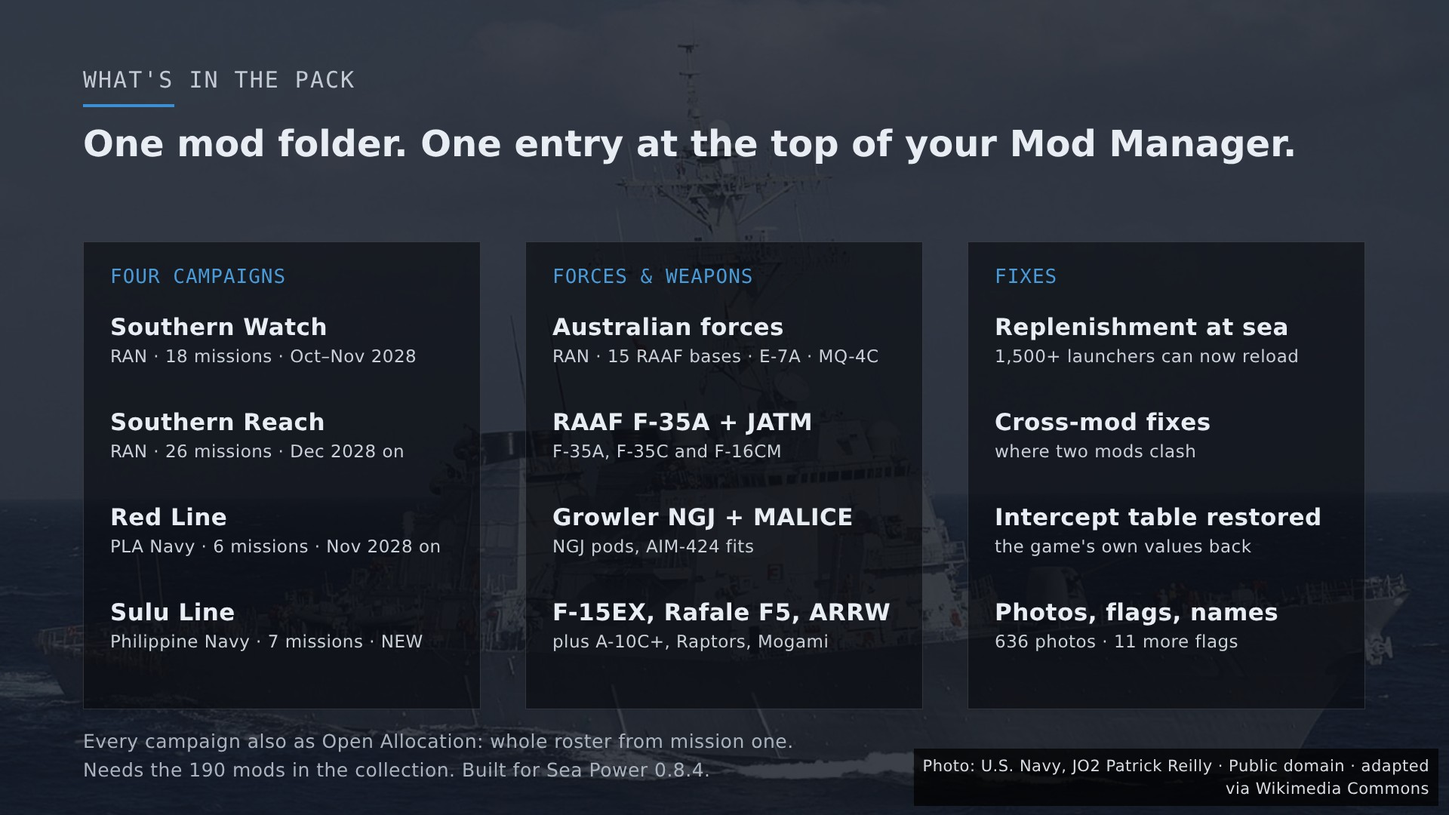
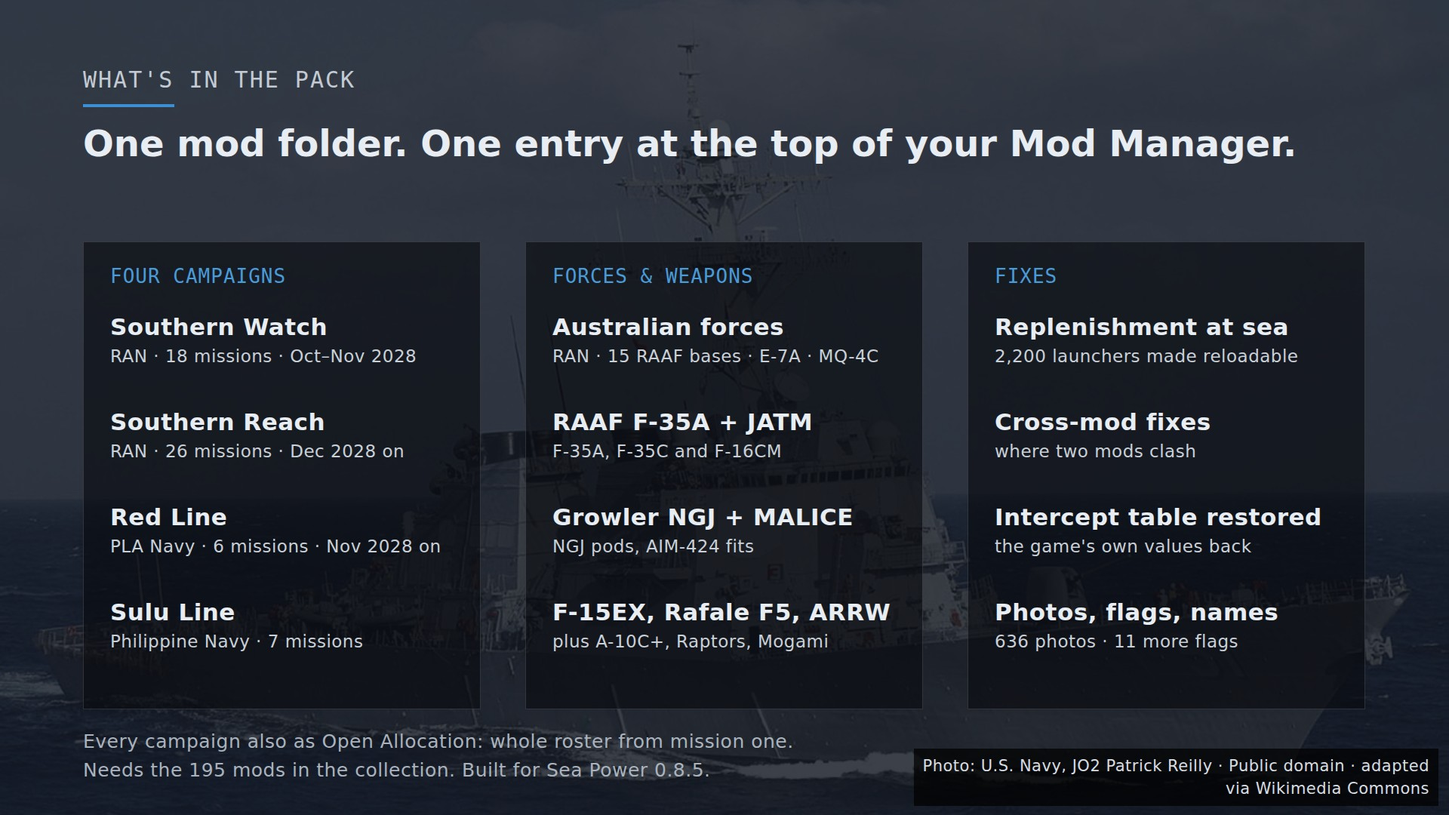
Steam cards for the 13 Oct update; Road Mobile ICBMs note corrected
The 'latest update' card now describes 13 Oct (six mods join, the
SM-6 Block IB from U.S. Navy 2027, 37 hulls re-forked, Mk 41 spacing
and the DDG-995's MH-60 marked not yet confirmed in game) on the U.S.
Navy's public-domain photo of USS Decatur's SM-3 launch, the same
photograph as loading screen 27; VISUAL_CREDITS.txt and the Gallery's
Steam artwork caption credit it, and BRP Tarlac's CC BY-SA entry stays
for the Sulu Line card's map. The 'what's in the pack' card says 195
mods and Sea Power 0.8.5, drops Sulu Line's old NEW, and gives the
replenishment figure as 2,200 launchers made reloadable.

The road-mobile-icbms catalog note said the campaigns reach the mod
through Red Storm Arsenal's Patriots, and the 85ef3cf9 message
repeated it. That was wrong: the coverage check credits it at folder
level, because placed hulls (the Nimitz 2025, the Maya) read other
files in ships/materials/shared/. The Patriots that read its tyre file
are placed only in two loose SEST missions.

Rebuilt from scratch; every gate and both test suites pass except
check_inventory, which still waits on the PC's renormalize of four
mods.

diff --git a/integration/dist/SEST_Integration/Gallery/visual_overhaul.html b/integration/dist/SEST_Integration/Gallery/visual_overhaul.html
@@ -6,7 +6,7 @@
 <div class="controls"><button id="prev">Previous</button><select id="screenSelect" aria-label="Loading photograph"></select><button id="next">Next</button><button id="toggle">Hide preview overlay</button><a id="download" download>Open clean JPEG</a></div><p id="screenCredit" class="note"></p><p class="note">Photographs are fitted without changing the subject. The 1920 × 1080 canvas is a delivery format; smaller source photos do not gain real detail through resizing. Source dimensions and modifications are recorded in the manifest.</p>
 <h2>Flags and naval ensigns</h2><p class="intro">Use national flags for country identity and the appropriate ensign for ship service. Preserve era-specific flags for historical scenarios. Russia is a separate modern-profile option; Soviet assets remain available for historical content.</p><div class="controls"><input id="flagSearch" type="search" placeholder="Find a country or ensign…" aria-label="Search flags"><select id="flagRole" aria-label="Flag type"><option value="">All supplied flags</option><option value="national">National flags</option><option value="naval_ensign">Naval ensigns</option><option value="historical">Historical profile</option></select><span id="flagCount" class="note"></span></div><div id="flags" class="flaggrid"></div>
 <h2>Campaign and briefing presentation</h2><p class="intro">The same approved photograph can support mission covers, a briefing panel and campaign splash art. The template uses plain text and a source photo; theatre names, dates, orders and maps must come from the actual mission.</p><div class="briefing"><img id="briefPhoto" alt="Photographic briefing example"><div class="copy"><label>Briefing layout template</label><h3>Mission title</h3><span class="pill">THEATRE</span> <span class="pill">SCENARIO DATE</span><p><strong>Situation</strong><br>Insert the campaign's approved situation text.</p><p><strong>Mission</strong><br>Insert the actual objectives and rules for this mission.</p><p>Keep the interactive briefing map and operational details sourced from the mission files. This template contains no invented scenario information.</p></div></div>
-<h2>Steam artwork</h2><p class="intro">The images on the collection and pack pages on Steam, made from photos in this gallery. Each image carries its photo credit; full sources are in VISUAL_CREDITS.txt.</p><style>.steamgrid{display:grid;grid-template-columns:repeat(auto-fill,minmax(260px,1fr));gap:16px;max-width:1200px}.steamart{margin:0;background:#fff;border:1px solid var(--line);border-radius:8px;overflow:hidden}.steamart img{display:block;width:100%;height:auto}.steamart figcaption{padding:10px 12px;font-size:13px}.steamart small{color:var(--muted)}</style><div class="steamgrid"><figure class="steamart"><a href="visuals/steam/collection-cover.jpg"><img loading="lazy" src="visuals/steam/collection-cover.jpg" alt="Collection cover"></a><figcaption><strong>Collection cover</strong><br><small>Hobart class: Japan Maritime Self-Defense Force, CC BY 4.0</small></figcaption></figure><figure class="steamart"><a href="visuals/steam/collection-background.jpg"><img loading="lazy" src="visuals/steam/collection-background.jpg" alt="Collection background"></a><figcaption><strong>Collection background</strong><br><small>Arleigh Burke class: U.S. Navy photo by Journalist 2nd Class Patrick Reilly, Public domain; Hobart class: Japan Maritime Self-Defense Force, CC BY 4.0; Collins class submarine: U.S. Navy photo by Mass Communication Specialist 1st Class Leonard Adams, Public domain; Type 054A frigate: U.S. Navy photo by Mass Communication Specialist 1st Class Scott Taylor, Public domain; Miguel Malvar class: Philippine Navy Public Affairs Office, Public domain</small></figcaption></figure><figure class="steamart"><a href="visuals/steam/pack-preview.jpg"><img loading="lazy" src="visuals/steam/pack-preview.jpg" alt="Pack cover"></a><figcaption><strong>Pack cover</strong><br><small>F-35A — RAAF: U.S. Air Force photo by Senior Airman J. Michael Peña, Public domain</small></figcaption></figure><figure class="steamart"><a href="visuals/steam/pack-1-latest-update.jpg"><img loading="lazy" src="visuals/steam/pack-1-latest-update.jpg" alt="Latest update"></a><figcaption><strong>Latest update</strong><br><small>BRP Tarlac: U.S. Navy photo by Mass Communication Specialist 1st Class Daniel Barker, CC BY-SA 4.0</small></figcaption></figure><figure class="steamart"><a href="visuals/steam/pack-2-whats-inside.jpg"><img loading="lazy" src="visuals/steam/pack-2-whats-inside.jpg" alt="What's in the pack"></a><figcaption><strong>What's in the pack</strong><br><small>Arleigh Burke class: U.S. Navy photo by Journalist 2nd Class Patrick Reilly, Public domain</small></figcaption></figure><figure class="steamart"><a href="visuals/steam/pack-3-installing.jpg"><img loading="lazy" src="visuals/steam/pack-3-installing.jpg" alt="Installing"></a><figcaption><strong>Installing</strong><br><small>E-7A Wedgetail — RAAF: U.S. Air Force photo by Lawrence Crespo, Public domain</small></figcaption></figure><figure class="steamart"><a href="visuals/steam/pack-4-southern-watch.jpg"><img loading="lazy" src="visuals/steam/pack-4-southern-watch.jpg" alt="Southern Watch"></a><figcaption><strong>Southern Watch</strong><br><small>Hobart class: Japan Maritime Self-Defense Force, CC BY 4.0; campaign map: MH-60R Seahawk, U.S. Navy/Mass Communication Specialist 3rd Class Andrew Langholf, Public domain</small></figcaption></figure><figure class="steamart"><a href="visuals/steam/pack-5-southern-reach.jpg"><img loading="lazy" src="visuals/steam/pack-5-southern-reach.jpg" alt="Southern Reach"></a><figcaption><strong>Southern Reach</strong><br><small>Collins class submarine: U.S. Navy photo by Mass Communication Specialist 1st Class Leonard Adams, Public domain</small></figcaption></figure><figure class="steamart"><a href="visuals/steam/pack-6-red-line.jpg"><img loading="lazy" src="visuals/steam/pack-6-red-line.jpg" alt="Red Line"></a><figcaption><strong>Red Line</strong><br><small>Type 054A frigate: U.S. Navy photo by Mass Communication Specialist 1st Class Scott Taylor, Public domain; campaign map: Type 003 Fujian, China News Service, CC BY 4.0</small></figcaption></figure><figure class="steamart"><a href="visuals/steam/pack-7-sulu-line.jpg"><img loading="lazy" src="visuals/steam/pack-7-sulu-line.jpg" alt="Sulu Line"></a><figcaption><strong>Sulu Line</strong><br><small>Miguel Malvar class: Philippine Navy Public Affairs Office, Public domain; campaign map: BRP Tarlac, U.S. Navy photo by Mass Communication Specialist 1st Class Daniel Barker, CC BY-SA 4.0</small></figcaption></figure></div>
+<h2>Steam artwork</h2><p class="intro">The images on the collection and pack pages on Steam, made from photos in this gallery. Each image carries its photo credit; full sources are in VISUAL_CREDITS.txt.</p><style>.steamgrid{display:grid;grid-template-columns:repeat(auto-fill,minmax(260px,1fr));gap:16px;max-width:1200px}.steamart{margin:0;background:#fff;border:1px solid var(--line);border-radius:8px;overflow:hidden}.steamart img{display:block;width:100%;height:auto}.steamart figcaption{padding:10px 12px;font-size:13px}.steamart small{color:var(--muted)}</style><div class="steamgrid"><figure class="steamart"><a href="visuals/steam/collection-cover.jpg"><img loading="lazy" src="visuals/steam/collection-cover.jpg" alt="Collection cover"></a><figcaption><strong>Collection cover</strong><br><small>Hobart class: Japan Maritime Self-Defense Force, CC BY 4.0</small></figcaption></figure><figure class="steamart"><a href="visuals/steam/collection-background.jpg"><img loading="lazy" src="visuals/steam/collection-background.jpg" alt="Collection background"></a><figcaption><strong>Collection background</strong><br><small>Arleigh Burke class: U.S. Navy photo by Journalist 2nd Class Patrick Reilly, Public domain; Hobart class: Japan Maritime Self-Defense Force, CC BY 4.0; Collins class submarine: U.S. Navy photo by Mass Communication Specialist 1st Class Leonard Adams, Public domain; Type 054A frigate: U.S. Navy photo by Mass Communication Specialist 1st Class Scott Taylor, Public domain; Miguel Malvar class: Philippine Navy Public Affairs Office, Public domain</small></figcaption></figure><figure class="steamart"><a href="visuals/steam/pack-preview.jpg"><img loading="lazy" src="visuals/steam/pack-preview.jpg" alt="Pack cover"></a><figcaption><strong>Pack cover</strong><br><small>F-35A — RAAF: U.S. Air Force photo by Senior Airman J. Michael Peña, Public domain</small></figcaption></figure><figure class="steamart"><a href="visuals/steam/pack-1-latest-update.jpg"><img loading="lazy" src="visuals/steam/pack-1-latest-update.jpg" alt="Latest update"></a><figcaption><strong>Latest update</strong><br><small>Arleigh Burke class (USS Decatur, SM-3 launch): United States Navy photo, Public domain (also loading screen 27)</small></figcaption></figure><figure class="steamart"><a href="visuals/steam/pack-2-whats-inside.jpg"><img loading="lazy" src="visuals/steam/pack-2-whats-inside.jpg" alt="What's in the pack"></a><figcaption><strong>What's in the pack</strong><br><small>Arleigh Burke class: U.S. Navy photo by Journalist 2nd Class Patrick Reilly, Public domain</small></figcaption></figure><figure class="steamart"><a href="visuals/steam/pack-3-installing.jpg"><img loading="lazy" src="visuals/steam/pack-3-installing.jpg" alt="Installing"></a><figcaption><strong>Installing</strong><br><small>E-7A Wedgetail — RAAF: U.S. Air Force photo by Lawrence Crespo, Public domain</small></figcaption></figure><figure class="steamart"><a href="visuals/steam/pack-4-southern-watch.jpg"><img loading="lazy" src="visuals/steam/pack-4-southern-watch.jpg" alt="Southern Watch"></a><figcaption><strong>Southern Watch</strong><br><small>Hobart class: Japan Maritime Self-Defense Force, CC BY 4.0; campaign map: MH-60R Seahawk, U.S. Navy/Mass Communication Specialist 3rd Class Andrew Langholf, Public domain</small></figcaption></figure><figure class="steamart"><a href="visuals/steam/pack-5-southern-reach.jpg"><img loading="lazy" src="visuals/steam/pack-5-southern-reach.jpg" alt="Southern Reach"></a><figcaption><strong>Southern Reach</strong><br><small>Collins class submarine: U.S. Navy photo by Mass Communication Specialist 1st Class Leonard Adams, Public domain</small></figcaption></figure><figure class="steamart"><a href="visuals/steam/pack-6-red-line.jpg"><img loading="lazy" src="visuals/steam/pack-6-red-line.jpg" alt="Red Line"></a><figcaption><strong>Red Line</strong><br><small>Type 054A frigate: U.S. Navy photo by Mass Communication Specialist 1st Class Scott Taylor, Public domain; campaign map: Type 003 Fujian, China News Service, CC BY 4.0</small></figcaption></figure><figure class="steamart"><a href="visuals/steam/pack-7-sulu-line.jpg"><img loading="lazy" src="visuals/steam/pack-7-sulu-line.jpg" alt="Sulu Line"></a><figcaption><strong>Sulu Line</strong><br><small>Miguel Malvar class: Philippine Navy Public Affairs Office, Public domain; campaign map: BRP Tarlac, U.S. Navy photo by Mass Communication Specialist 1st Class Daniel Barker, CC BY-SA 4.0</small></figcaption></figure></div>
 <h2>Other improvements to consider</h2><div class="table"><table><thead><tr><th>Area</th><th>Deliverable</th><th>Current state</th><th>Order</th></tr></thead><tbody id="roadmap"></tbody></table></div>
 </main><footer>Source graphics and photographs retain their own licences. Clean assets, credits and candidate mappings are supplied. No game files have been changed; native image loading, flag texture routing, mod conflicts and in-game appearance still require testing.</footer><script src="visuals/catalogue.js"></script><script>
 'use strict';const V=window.VISUALS;const $=s=>document.querySelector(s);const esc=s=>String(s??'').replace(/[&<>"']/g,c=>({'&':'&amp;','<':'&lt;','>':'&gt;','"':'&quot;',"'":'&#39;'}[c]));let index=0,overlay=true;

diff --git a/integration/gallery/SEST_Gallery/Gallery/visual_overhaul.html b/integration/gallery/SEST_Gallery/Gallery/visual_overhaul.html
@@ -6,7 +6,7 @@
 <div class="controls"><button id="prev">Previous</button><select id="screenSelect" aria-label="Loading photograph"></select><button id="next">Next</button><button id="toggle">Hide preview overlay</button><a id="download" download>Open clean JPEG</a></div><p id="screenCredit" class="note"></p><p class="note">Photographs are fitted without changing the subject. The 1920 × 1080 canvas is a delivery format; smaller source photos do not gain real detail through resizing. Source dimensions and modifications are recorded in the manifest.</p>
 <h2>Flags and naval ensigns</h2><p class="intro">Use national flags for country identity and the appropriate ensign for ship service. Preserve era-specific flags for historical scenarios. Russia is a separate modern-profile option; Soviet assets remain available for historical content.</p><div class="controls"><input id="flagSearch" type="search" placeholder="Find a country or ensign…" aria-label="Search flags"><select id="flagRole" aria-label="Flag type"><option value="">All supplied flags</option><option value="national">National flags</option><option value="naval_ensign">Naval ensigns</option><option value="historical">Historical profile</option></select><span id="flagCount" class="note"></span></div><div id="flags" class="flaggrid"></div>
 <h2>Campaign and briefing presentation</h2><p class="intro">The same approved photograph can support mission covers, a briefing panel and campaign splash art. The template uses plain text and a source photo; theatre names, dates, orders and maps must come from the actual mission.</p><div class="briefing"><img id="briefPhoto" alt="Photographic briefing example"><div class="copy"><label>Briefing layout template</label><h3>Mission title</h3><span class="pill">THEATRE</span> <span class="pill">SCENARIO DATE</span><p><strong>Situation</strong><br>Insert the campaign's approved situation text.</p><p><strong>Mission</strong><br>Insert the actual objectives and rules for this mission.</p><p>Keep the interactive briefing map and operational details sourced from the mission files. This template contains no invented scenario information.</p></div></div>
-<h2>Steam artwork</h2><p class="intro">The images on the collection and pack pages on Steam, made from photos in this gallery. Each image carries its photo credit; full sources are in VISUAL_CREDITS.txt.</p><style>.steamgrid{display:grid;grid-template-columns:repeat(auto-fill,minmax(260px,1fr));gap:16px;max-width:1200px}.steamart{margin:0;background:#fff;border:1px solid var(--line);border-radius:8px;overflow:hidden}.steamart img{display:block;width:100%;height:auto}.steamart figcaption{padding:10px 12px;font-size:13px}.steamart small{color:var(--muted)}</style><div class="steamgrid"><figure class="steamart"><a href="visuals/steam/collection-cover.jpg"><img loading="lazy" src="visuals/steam/collection-cover.jpg" alt="Collection cover"></a><figcaption><strong>Collection cover</strong><br><small>Hobart class: Japan Maritime Self-Defense Force, CC BY 4.0</small></figcaption></figure><figure class="steamart"><a href="visuals/steam/collection-background.jpg"><img loading="lazy" src="visuals/steam/collection-background.jpg" alt="Collection background"></a><figcaption><strong>Collection background</strong><br><small>Arleigh Burke class: U.S. Navy photo by Journalist 2nd Class Patrick Reilly, Public domain; Hobart class: Japan Maritime Self-Defense Force, CC BY 4.0; Collins class submarine: U.S. Navy photo by Mass Communication Specialist 1st Class Leonard Adams, Public domain; Type 054A frigate: U.S. Navy photo by Mass Communication Specialist 1st Class Scott Taylor, Public domain; Miguel Malvar class: Philippine Navy Public Affairs Office, Public domain</small></figcaption></figure><figure class="steamart"><a href="visuals/steam/pack-preview.jpg"><img loading="lazy" src="visuals/steam/pack-preview.jpg" alt="Pack cover"></a><figcaption><strong>Pack cover</strong><br><small>F-35A — RAAF: U.S. Air Force photo by Senior Airman J. Michael Peña, Public domain</small></figcaption></figure><figure class="steamart"><a href="visuals/steam/pack-1-latest-update.jpg"><img loading="lazy" src="visuals/steam/pack-1-latest-update.jpg" alt="Latest update"></a><figcaption><strong>Latest update</strong><br><small>BRP Tarlac: U.S. Navy photo by Mass Communication Specialist 1st Class Daniel Barker, CC BY-SA 4.0</small></figcaption></figure><figure class="steamart"><a href="visuals/steam/pack-2-whats-inside.jpg"><img loading="lazy" src="visuals/steam/pack-2-whats-inside.jpg" alt="What's in the pack"></a><figcaption><strong>What's in the pack</strong><br><small>Arleigh Burke class: U.S. Navy photo by Journalist 2nd Class Patrick Reilly, Public domain</small></figcaption></figure><figure class="steamart"><a href="visuals/steam/pack-3-installing.jpg"><img loading="lazy" src="visuals/steam/pack-3-installing.jpg" alt="Installing"></a><figcaption><strong>Installing</strong><br><small>E-7A Wedgetail — RAAF: U.S. Air Force photo by Lawrence Crespo, Public domain</small></figcaption></figure><figure class="steamart"><a href="visuals/steam/pack-4-southern-watch.jpg"><img loading="lazy" src="visuals/steam/pack-4-southern-watch.jpg" alt="Southern Watch"></a><figcaption><strong>Southern Watch</strong><br><small>Hobart class: Japan Maritime Self-Defense Force, CC BY 4.0; campaign map: MH-60R Seahawk, U.S. Navy/Mass Communication Specialist 3rd Class Andrew Langholf, Public domain</small></figcaption></figure><figure class="steamart"><a href="visuals/steam/pack-5-southern-reach.jpg"><img loading="lazy" src="visuals/steam/pack-5-southern-reach.jpg" alt="Southern Reach"></a><figcaption><strong>Southern Reach</strong><br><small>Collins class submarine: U.S. Navy photo by Mass Communication Specialist 1st Class Leonard Adams, Public domain</small></figcaption></figure><figure class="steamart"><a href="visuals/steam/pack-6-red-line.jpg"><img loading="lazy" src="visuals/steam/pack-6-red-line.jpg" alt="Red Line"></a><figcaption><strong>Red Line</strong><br><small>Type 054A frigate: U.S. Navy photo by Mass Communication Specialist 1st Class Scott Taylor, Public domain; campaign map: Type 003 Fujian, China News Service, CC BY 4.0</small></figcaption></figure><figure class="steamart"><a href="visuals/steam/pack-7-sulu-line.jpg"><img loading="lazy" src="visuals/steam/pack-7-sulu-line.jpg" alt="Sulu Line"></a><figcaption><strong>Sulu Line</strong><br><small>Miguel Malvar class: Philippine Navy Public Affairs Office, Public domain; campaign map: BRP Tarlac, U.S. Navy photo by Mass Communication Specialist 1st Class Daniel Barker, CC BY-SA 4.0</small></figcaption></figure></div>
+<h2>Steam artwork</h2><p class="intro">The images on the collection and pack pages on Steam, made from photos in this gallery. Each image carries its photo credit; full sources are in VISUAL_CREDITS.txt.</p><style>.steamgrid{display:grid;grid-template-columns:repeat(auto-fill,minmax(260px,1fr));gap:16px;max-width:1200px}.steamart{margin:0;background:#fff;border:1px solid var(--line);border-radius:8px;overflow:hidden}.steamart img{display:block;width:100%;height:auto}.steamart figcaption{padding:10px 12px;font-size:13px}.steamart small{color:var(--muted)}</style><div class="steamgrid"><figure class="steamart"><a href="visuals/steam/collection-cover.jpg"><img loading="lazy" src="visuals/steam/collection-cover.jpg" alt="Collection cover"></a><figcaption><strong>Collection cover</strong><br><small>Hobart class: Japan Maritime Self-Defense Force, CC BY 4.0</small></figcaption></figure><figure class="steamart"><a href="visuals/steam/collection-background.jpg"><img loading="lazy" src="visuals/steam/collection-background.jpg" alt="Collection background"></a><figcaption><strong>Collection background</strong><br><small>Arleigh Burke class: U.S. Navy photo by Journalist 2nd Class Patrick Reilly, Public domain; Hobart class: Japan Maritime Self-Defense Force, CC BY 4.0; Collins class submarine: U.S. Navy photo by Mass Communication Specialist 1st Class Leonard Adams, Public domain; Type 054A frigate: U.S. Navy photo by Mass Communication Specialist 1st Class Scott Taylor, Public domain; Miguel Malvar class: Philippine Navy Public Affairs Office, Public domain</small></figcaption></figure><figure class="steamart"><a href="visuals/steam/pack-preview.jpg"><img loading="lazy" src="visuals/steam/pack-preview.jpg" alt="Pack cover"></a><figcaption><strong>Pack cover</strong><br><small>F-35A — RAAF: U.S. Air Force photo by Senior Airman J. Michael Peña, Public domain</small></figcaption></figure><figure class="steamart"><a href="visuals/steam/pack-1-latest-update.jpg"><img loading="lazy" src="visuals/steam/pack-1-latest-update.jpg" alt="Latest update"></a><figcaption><strong>Latest update</strong><br><small>Arleigh Burke class (USS Decatur, SM-3 launch): United States Navy photo, Public domain (also loading screen 27)</small></figcaption></figure><figure class="steamart"><a href="visuals/steam/pack-2-whats-inside.jpg"><img loading="lazy" src="visuals/steam/pack-2-whats-inside.jpg" alt="What's in the pack"></a><figcaption><strong>What's in the pack</strong><br><small>Arleigh Burke class: U.S. Navy photo by Journalist 2nd Class Patrick Reilly, Public domain</small></figcaption></figure><figure class="steamart"><a href="visuals/steam/pack-3-installing.jpg"><img loading="lazy" src="visuals/steam/pack-3-installing.jpg" alt="Installing"></a><figcaption><strong>Installing</strong><br><small>E-7A Wedgetail — RAAF: U.S. Air Force photo by Lawrence Crespo, Public domain</small></figcaption></figure><figure class="steamart"><a href="visuals/steam/pack-4-southern-watch.jpg"><img loading="lazy" src="visuals/steam/pack-4-southern-watch.jpg" alt="Southern Watch"></a><figcaption><strong>Southern Watch</strong><br><small>Hobart class: Japan Maritime Self-Defense Force, CC BY 4.0; campaign map: MH-60R Seahawk, U.S. Navy/Mass Communication Specialist 3rd Class Andrew Langholf, Public domain</small></figcaption></figure><figure class="steamart"><a href="visuals/steam/pack-5-southern-reach.jpg"><img loading="lazy" src="visuals/steam/pack-5-southern-reach.jpg" alt="Southern Reach"></a><figcaption><strong>Southern Reach</strong><br><small>Collins class submarine: U.S. Navy photo by Mass Communication Specialist 1st Class Leonard Adams, Public domain</small></figcaption></figure><figure class="steamart"><a href="visuals/steam/pack-6-red-line.jpg"><img loading="lazy" src="visuals/steam/pack-6-red-line.jpg" alt="Red Line"></a><figcaption><strong>Red Line</strong><br><small>Type 054A frigate: U.S. Navy photo by Mass Communication Specialist 1st Class Scott Taylor, Public domain; campaign map: Type 003 Fujian, China News Service, CC BY 4.0</small></figcaption></figure><figure class="steamart"><a href="visuals/steam/pack-7-sulu-line.jpg"><img loading="lazy" src="visuals/steam/pack-7-sulu-line.jpg" alt="Sulu Line"></a><figcaption><strong>Sulu Line</strong><br><small>Miguel Malvar class: Philippine Navy Public Affairs Office, Public domain; campaign map: BRP Tarlac, U.S. Navy photo by Mass Communication Specialist 1st Class Daniel Barker, CC BY-SA 4.0</small></figcaption></figure></div>
 <h2>Other improvements to consider</h2><div class="table"><table><thead><tr><th>Area</th><th>Deliverable</th><th>Current state</th><th>Order</th></tr></thead><tbody id="roadmap"></tbody></table></div>
 </main><footer>Source graphics and photographs retain their own licences. Clean assets, credits and candidate mappings are supplied. No game files have been changed; native image loading, flag texture routing, mod conflicts and in-game appearance still require testing.</footer><script src="visuals/catalogue.js"></script><script>
 'use strict';const V=window.VISUALS;const $=s=>document.querySelector(s);const esc=s=>String(s??'').replace(/[&<>"']/g,c=>({'&':'&amp;','<':'&lt;','>':'&gt;','"':'&quot;',"'":'&#39;'}[c]));let index=0,overlay=true;

diff --git a/integration/gallery/source/visual_overhaul.html b/integration/gallery/source/visual_overhaul.html
@@ -6,7 +6,7 @@
 <div class="controls"><button id="prev">Previous</button><select id="screenSelect" aria-label="Loading photograph"></select><button id="next">Next</button><button id="toggle">Hide preview overlay</button><a id="download" download>Open clean JPEG</a></div><p id="screenCredit" class="note"></p><p class="note">Photographs are fitted without changing the subject. The 1920 × 1080 canvas is a delivery format; smaller source photos do not gain real detail through resizing. Source dimensions and modifications are recorded in the manifest.</p>
 <h2>Flags and naval ensigns</h2><p class="intro">Use national flags for country identity and the appropriate ensign for ship service. Preserve era-specific flags for historical scenarios. Russia is a separate modern-profile option; Soviet assets remain available for historical content.</p><div class="controls"><input id="flagSearch" type="search" placeholder="Find a country or ensign…" aria-label="Search flags"><select id="flagRole" aria-label="Flag type"><option value="">All supplied flags</option><option value="national">National flags</option><option value="naval_ensign">Naval ensigns</option><option value="historical">Historical profile</option></select><span id="flagCount" class="note"></span></div><div id="flags" class="flaggrid"></div>
 <h2>Campaign and briefing presentation</h2><p class="intro">The same approved photograph can support mission covers, a briefing panel and campaign splash art. The template uses plain text and a source photo; theatre names, dates, orders and maps must come from the actual mission.</p><div class="briefing"><img id="briefPhoto" alt="Photographic briefing example"><div class="copy"><label>Briefing layout template</label><h3>Mission title</h3><span class="pill">THEATRE</span> <span class="pill">SCENARIO DATE</span><p><strong>Situation</strong><br>Insert the campaign's approved situation text.</p><p><strong>Mission</strong><br>Insert the actual objectives and rules for this mission.</p><p>Keep the interactive briefing map and operational details sourced from the mission files. This template contains no invented scenario information.</p></div></div>
-<h2>Steam artwork</h2><p class="intro">The images on the collection and pack pages on Steam, made from photos in this gallery. Each image carries its photo credit; full sources are in VISUAL_CREDITS.txt.</p><style>.steamgrid{display:grid;grid-template-columns:repeat(auto-fill,minmax(260px,1fr));gap:16px;max-width:1200px}.steamart{margin:0;background:#fff;border:1px solid var(--line);border-radius:8px;overflow:hidden}.steamart img{display:block;width:100%;height:auto}.steamart figcaption{padding:10px 12px;font-size:13px}.steamart small{color:var(--muted)}</style><div class="steamgrid"><figure class="steamart"><a href="visuals/steam/collection-cover.jpg"><img loading="lazy" src="visuals/steam/collection-cover.jpg" alt="Collection cover"></a><figcaption><strong>Collection cover</strong><br><small>Hobart class: Japan Maritime Self-Defense Force, CC BY 4.0</small></figcaption></figure><figure class="steamart"><a href="visuals/steam/collection-background.jpg"><img loading="lazy" src="visuals/steam/collection-background.jpg" alt="Collection background"></a><figcaption><strong>Collection background</strong><br><small>Arleigh Burke class: U.S. Navy photo by Journalist 2nd Class Patrick Reilly, Public domain; Hobart class: Japan Maritime Self-Defense Force, CC BY 4.0; Collins class submarine: U.S. Navy photo by Mass Communication Specialist 1st Class Leonard Adams, Public domain; Type 054A frigate: U.S. Navy photo by Mass Communication Specialist 1st Class Scott Taylor, Public domain; Miguel Malvar class: Philippine Navy Public Affairs Office, Public domain</small></figcaption></figure><figure class="steamart"><a href="visuals/steam/pack-preview.jpg"><img loading="lazy" src="visuals/steam/pack-preview.jpg" alt="Pack cover"></a><figcaption><strong>Pack cover</strong><br><small>F-35A — RAAF: U.S. Air Force photo by Senior Airman J. Michael Peña, Public domain</small></figcaption></figure><figure class="steamart"><a href="visuals/steam/pack-1-latest-update.jpg"><img loading="lazy" src="visuals/steam/pack-1-latest-update.jpg" alt="Latest update"></a><figcaption><strong>Latest update</strong><br><small>BRP Tarlac: U.S. Navy photo by Mass Communication Specialist 1st Class Daniel Barker, CC BY-SA 4.0</small></figcaption></figure><figure class="steamart"><a href="visuals/steam/pack-2-whats-inside.jpg"><img loading="lazy" src="visuals/steam/pack-2-whats-inside.jpg" alt="What's in the pack"></a><figcaption><strong>What's in the pack</strong><br><small>Arleigh Burke class: U.S. Navy photo by Journalist 2nd Class Patrick Reilly, Public domain</small></figcaption></figure><figure class="steamart"><a href="visuals/steam/pack-3-installing.jpg"><img loading="lazy" src="visuals/steam/pack-3-installing.jpg" alt="Installing"></a><figcaption><strong>Installing</strong><br><small>E-7A Wedgetail — RAAF: U.S. Air Force photo by Lawrence Crespo, Public domain</small></figcaption></figure><figure class="steamart"><a href="visuals/steam/pack-4-southern-watch.jpg"><img loading="lazy" src="visuals/steam/pack-4-southern-watch.jpg" alt="Southern Watch"></a><figcaption><strong>Southern Watch</strong><br><small>Hobart class: Japan Maritime Self-Defense Force, CC BY 4.0; campaign map: MH-60R Seahawk, U.S. Navy/Mass Communication Specialist 3rd Class Andrew Langholf, Public domain</small></figcaption></figure><figure class="steamart"><a href="visuals/steam/pack-5-southern-reach.jpg"><img loading="lazy" src="visuals/steam/pack-5-southern-reach.jpg" alt="Southern Reach"></a><figcaption><strong>Southern Reach</strong><br><small>Collins class submarine: U.S. Navy photo by Mass Communication Specialist 1st Class Leonard Adams, Public domain</small></figcaption></figure><figure class="steamart"><a href="visuals/steam/pack-6-red-line.jpg"><img loading="lazy" src="visuals/steam/pack-6-red-line.jpg" alt="Red Line"></a><figcaption><strong>Red Line</strong><br><small>Type 054A frigate: U.S. Navy photo by Mass Communication Specialist 1st Class Scott Taylor, Public domain; campaign map: Type 003 Fujian, China News Service, CC BY 4.0</small></figcaption></figure><figure class="steamart"><a href="visuals/steam/pack-7-sulu-line.jpg"><img loading="lazy" src="visuals/steam/pack-7-sulu-line.jpg" alt="Sulu Line"></a><figcaption><strong>Sulu Line</strong><br><small>Miguel Malvar class: Philippine Navy Public Affairs Office, Public domain; campaign map: BRP Tarlac, U.S. Navy photo by Mass Communication Specialist 1st Class Daniel Barker, CC BY-SA 4.0</small></figcaption></figure></div>
+<h2>Steam artwork</h2><p class="intro">The images on the collection and pack pages on Steam, made from photos in this gallery. Each image carries its photo credit; full sources are in VISUAL_CREDITS.txt.</p><style>.steamgrid{display:grid;grid-template-columns:repeat(auto-fill,minmax(260px,1fr));gap:16px;max-width:1200px}.steamart{margin:0;background:#fff;border:1px solid var(--line);border-radius:8px;overflow:hidden}.steamart img{display:block;width:100%;height:auto}.steamart figcaption{padding:10px 12px;font-size:13px}.steamart small{color:var(--muted)}</style><div class="steamgrid"><figure class="steamart"><a href="visuals/steam/collection-cover.jpg"><img loading="lazy" src="visuals/steam/collection-cover.jpg" alt="Collection cover"></a><figcaption><strong>Collection cover</strong><br><small>Hobart class: Japan Maritime Self-Defense Force, CC BY 4.0</small></figcaption></figure><figure class="steamart"><a href="visuals/steam/collection-background.jpg"><img loading="lazy" src="visuals/steam/collection-background.jpg" alt="Collection background"></a><figcaption><strong>Collection background</strong><br><small>Arleigh Burke class: U.S. Navy photo by Journalist 2nd Class Patrick Reilly, Public domain; Hobart class: Japan Maritime Self-Defense Force, CC BY 4.0; Collins class submarine: U.S. Navy photo by Mass Communication Specialist 1st Class Leonard Adams, Public domain; Type 054A frigate: U.S. Navy photo by Mass Communication Specialist 1st Class Scott Taylor, Public domain; Miguel Malvar class: Philippine Navy Public Affairs Office, Public domain</small></figcaption></figure><figure class="steamart"><a href="visuals/steam/pack-preview.jpg"><img loading="lazy" src="visuals/steam/pack-preview.jpg" alt="Pack cover"></a><figcaption><strong>Pack cover</strong><br><small>F-35A — RAAF: U.S. Air Force photo by Senior Airman J. Michael Peña, Public domain</small></figcaption></figure><figure class="steamart"><a href="visuals/steam/pack-1-latest-update.jpg"><img loading="lazy" src="visuals/steam/pack-1-latest-update.jpg" alt="Latest update"></a><figcaption><strong>Latest update</strong><br><small>Arleigh Burke class (USS Decatur, SM-3 launch): United States Navy photo, Public domain (also loading screen 27)</small></figcaption></figure><figure class="steamart"><a href="visuals/steam/pack-2-whats-inside.jpg"><img loading="lazy" src="visuals/steam/pack-2-whats-inside.jpg" alt="What's in the pack"></a><figcaption><strong>What's in the pack</strong><br><small>Arleigh Burke class: U.S. Navy photo by Journalist 2nd Class Patrick Reilly, Public domain</small></figcaption></figure><figure class="steamart"><a href="visuals/steam/pack-3-installing.jpg"><img loading="lazy" src="visuals/steam/pack-3-installing.jpg" alt="Installing"></a><figcaption><strong>Installing</strong><br><small>E-7A Wedgetail — RAAF: U.S. Air Force photo by Lawrence Crespo, Public domain</small></figcaption></figure><figure class="steamart"><a href="visuals/steam/pack-4-southern-watch.jpg"><img loading="lazy" src="visuals/steam/pack-4-southern-watch.jpg" alt="Southern Watch"></a><figcaption><strong>Southern Watch</strong><br><small>Hobart class: Japan Maritime Self-Defense Force, CC BY 4.0; campaign map: MH-60R Seahawk, U.S. Navy/Mass Communication Specialist 3rd Class Andrew Langholf, Public domain</small></figcaption></figure><figure class="steamart"><a href="visuals/steam/pack-5-southern-reach.jpg"><img loading="lazy" src="visuals/steam/pack-5-southern-reach.jpg" alt="Southern Reach"></a><figcaption><strong>Southern Reach</strong><br><small>Collins class submarine: U.S. Navy photo by Mass Communication Specialist 1st Class Leonard Adams, Public domain</small></figcaption></figure><figure class="steamart"><a href="visuals/steam/pack-6-red-line.jpg"><img loading="lazy" src="visuals/steam/pack-6-red-line.jpg" alt="Red Line"></a><figcaption><strong>Red Line</strong><br><small>Type 054A frigate: U.S. Navy photo by Mass Communication Specialist 1st Class Scott Taylor, Public domain; campaign map: Type 003 Fujian, China News Service, CC BY 4.0</small></figcaption></figure><figure class="steamart"><a href="visuals/steam/pack-7-sulu-line.jpg"><img loading="lazy" src="visuals/steam/pack-7-sulu-line.jpg" alt="Sulu Line"></a><figcaption><strong>Sulu Line</strong><br><small>Miguel Malvar class: Philippine Navy Public Affairs Office, Public domain; campaign map: BRP Tarlac, U.S. Navy photo by Mass Communication Specialist 1st Class Daniel Barker, CC BY-SA 4.0</small></figcaption></figure></div>
 <h2>Other improvements to consider</h2><div class="table"><table><thead><tr><th>Area</th><th>Deliverable</th><th>Current state</th><th>Order</th></tr></thead><tbody id="roadmap"></tbody></table></div>
 </main><footer>Source graphics and photographs retain their own licences. Clean assets, credits and candidate mappings are supplied. No game files have been changed; native image loading, flag texture routing, mod conflicts and in-game appearance still require testing.</footer><script src="visuals/catalogue.js"></script><script>
 'use strict';const V=window.VISUALS;const $=s=>document.querySelector(s);const esc=s=>String(s??'').replace(/[&<>"']/g,c=>({'&':'&amp;','<':'&lt;','>':'&gt;','"':'&quot;',"'":'&#39;'}[c]));let index=0,overlay=true;

diff --git a/docs/mod-catalog.md b/docs/mod-catalog.md
@@ -273,7 +273,7 @@ See `docs/conflicts-and-load-order.md` for the conflict watchlist, dependency au
 | ICBM silos | unknown (Workshop 3556629790) | land | Two fixed silo fields of six silos each (LandUnitSubType=MissileSite; the editor lists them as 'AShM Site'), kitbashed from vanilla meshes: usaf_icbm_silo (Nation=US, six usaf_lgm-30g Minuteman III) and wp_icbm_silo (Nation=Soviet, six wp_rt-23 RT-23 Molodets / SS-24). Rounds are unguided, attack Installation targets only (never ships), 100 nm minimum, 7,500 nm (LGM-30G) / 5,900 nm (RT-23), 12,000 kt. WarheadType=0 Power=10000 ImpactSize=5000 - the collection's strategic-nuclear figure, as its SLBMs (Trident, R-29RMU, R-39, JL-3). Kept for the mission editor: no SEST mission, Range Week or world campaign places it, since no nuclear weapons go into campaign magazines (campaign-bible.md). No dependencies; ApproximateVersion 0.8.0. Catalogued 13 Oct 2026 from the export (11 files). **Load order:** Directly below Type 12 SSM-ER Anti-Ship Missile System, above Road Mobile ICBMs (Topol-M, DF-41), with the ballistic-missile land launchers. Nothing changes hands: its animations/animations_icbm_silo.ini is byte-identical to THE REDFOR MOD's (no REDFOR unit uses it) and it sits above REDFOR; its one systems section, [ICBM_Launchers], is byte-identical to Road Mobile ICBMs'. **Overlaps:** road-mobile-icbms (identical [ICBM_Launchers] launcher system); the-redfor-mod (byte-identical animations/animations_icbm_silo.ini) |
 | NATO Ground Enhancement Series 2: Artillery | FallschimJager705 | land | By FallschimJager705. Two self-propelled howitzers: the PzH 2000 (German, Greek, Italian and Dutch variants) and the K9 (South Korean, Polish, Norwegian and Finnish variants). Each fires an unguided 155 mm shell (38 km and 46 km) and a laser-homing one (13.5 and 14.8 NM). All four rounds are priced (AmmoPoints 43.2 and 73.2). It ships eight files nothing else ships and four weapon sections no other mod defines. It was subscribed alongside The Second Northern War, none of whose six missions places it. **Load order:** Directly below Russian Ground Enhancement Series 1: Artillery, above The Second Northern War; it collides with nothing that changes hands, so the slot is a grouping choice. |
 | Pickup truck extension | unknown (added 2026-08-24) | land | Technicals / light vehicle extension. VERIFIED: adds civ_car_pickup_1983 variants (incl. armed/medic). |
-| Road Mobile ICBMs (Topol-M, DF-41) | unknown (Workshop 3571718093) | land | Two road-mobile launchers on the vanilla M270 chassis with the mod's own army_green and tyre materials: wp_ss-27_tel (Nation=Soviet, one wp_ss-27 Topol-M, 5,950 nm) and pla_df-41_tel (Nation=China, one pla_df-41 DF-41, 8,100 nm, CEP 100 m). Rounds unguided, Installation targets only, 100 nm minimum, 14,600 kt, WarheadType=0 Power=10000 ImpactSize=5000 with the nuclear burst effect. DEFECT: both launchers name SystemName=ICBM_Launcher, which nothing defines (the mod's systems/weapons.ini defines [ICBM_Launchers]); whether they fire is untested. Kept for the mission editor: no SEST mission, Range Week or world campaign places it. No dependencies; ApproximateVersion 0.8.0. Catalogued 13 Oct 2026 from the export (14 files). **Load order:** Directly below ICBM silos, above Russian Ground Enhancement Series 1: Artillery. Nothing changes hands: [ICBM_Launchers] is byte-identical to ICBM silos', and its ships/materials/shared/all_tires_mat.ini matches Red Storm Arsenal's in content (blank lines and line endings aside), so RSA's Patriots, which SEST missions field, look the same whichever wins. **Overlaps:** icbm-silos (identical [ICBM_Launchers]); red-storm-arsenal (content-identical ships/materials/shared/all_tires_mat.ini) |
+| Road Mobile ICBMs (Topol-M, DF-41) | unknown (Workshop 3571718093) | land | Two road-mobile launchers on the vanilla M270 chassis with the mod's own army_green and tyre materials: wp_ss-27_tel (Nation=Soviet, one wp_ss-27 Topol-M, 5,950 nm) and pla_df-41_tel (Nation=China, one pla_df-41 DF-41, 8,100 nm, CEP 100 m). Rounds unguided, Installation targets only, 100 nm minimum, 14,600 kt, WarheadType=0 Power=10000 ImpactSize=5000 with the nuclear burst effect. DEFECT: both launchers name SystemName=ICBM_Launcher, which nothing defines (the mod's systems/weapons.ini defines [ICBM_Launchers]); whether they fire is untested. Its launchers are kept for the mission editor: no SEST mission, Range Week or world campaign places them. No dependencies; ApproximateVersion 0.8.0. Catalogued 13 Oct 2026 from the export (14 files). **Load order:** Directly below ICBM silos, above Russian Ground Enhancement Series 1: Artillery. Nothing changes in game: [ICBM_Launchers] is byte-identical to ICBM silos', and its two ships/materials/shared/ files (all_tires_mat.ini, army_green.ini) win over Red Storm Arsenal's below it while matching RSA's tyre file in content (blank lines and line endings aside). The campaign coverage check credits it only at folder level: placed hulls (the Nimitz 2025 in Southern Watch, the Maya in Red Line) read other files in that folder, not these two, so it cannot be excused. RSA's Patriot launchers, which two loose SEST missions place (SEST Indo-Pacific Land Assets, AUS INDO-PAC ESCAv2), do read its tyre file. **Overlaps:** icbm-silos (identical [ICBM_Launchers]); red-storm-arsenal (content-identical ships/materials/shared/all_tires_mat.ini) |
 | SAM Pack | misaka | land | Surface-to-air missile systems pack (incl. MIM-104 Patriot). **Load order:** Author: 'Need on the top of TOE' — place at the top of the mod order **Overlaps:** ground-upgrade-spaa; thaad; pla-land-unit-pack (air defense overlap) |
 | Ground Upgrade: SPAA | misaka | patch | Refines ground-unit models and MODIFIES values of some weapons and units — load-order sensitive; watch for overlap with SAM Pack and land unit packs. |
 | Ultimate Missile Workshop | unknown | patch | Workshop 3672072359. Missile rebalance, text only: 111 ammunition files and a systems/sensors.ini with 19 sensor sections, no units. 95 of the ammunition files replace rounds other mods ship (Euromod, Ground upgrade: SPAA, the Flanker, J-11, Kuznetsov and Russian Navy 21 mods, Dingtools, Eurofighter, French Air Force, SAM Pack and 12 more); 43 are Anchor Chain #!alias stubs that fold variants onto UMW's own bases, every AIM-120C onto ac_aim-120c and every AIM-120D onto ac_aim-120d. The author asks for the top of the list and targets game 0.7.10. BOTTOM OF THE ORDER, deliberately: placed high it would retune rounds SEST loadouts hang (dts_aim-120d-3 on the F-15EX Revamp, usaf_aim-120c7 on the RAAF F-35A, the usn_aim-174b the SEST AIM-424 is aligned to), drop SEST_LongRangeSAM metering from four Euromod-chained S-300/S-400 rounds, give the YJ-91 the Kh-31A's active seeker, alias Gripen's AIM-120C-7 LQS to a file nothing ships and drop MaxTurnG from 40 rounds. Where it sits it loads nothing in use: its 16 unique rounds are hung by no unit, and every sensor key it sets loses to a higher definition. It also ships idf_stunner.ini, which stops SEST Intercept Model's sole-provider guard until that is decided. **Requires:** Anchor Chain (inferred from its #!alias files). **Requires:** 3380210757 **Load order:** Directly below PLAAF Aircraft Pack, above Red Storm Arsenal: its author asks for 'above all', which would take 91 rounds and break the Gripen's AIM-120C-7 and four SEST-metered SAMs; here it loses every file it shares, on the player's decision of October 2026 to keep it subscribed. |
